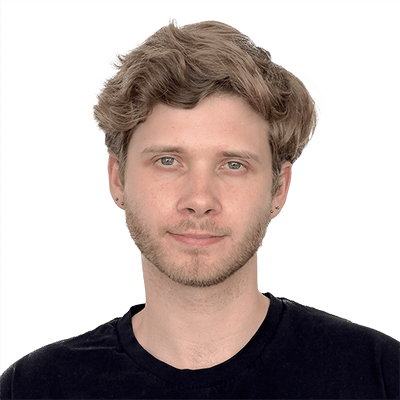
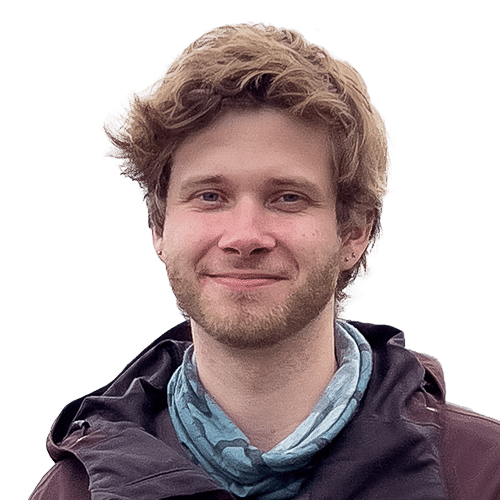
Update photo of me

diff --git a/src/pages/BusinessCardPage.vue b/src/pages/BusinessCardPage.vue
@@ -3,7 +3,7 @@
     <PageCard>
       <section class="businesscard">
         <div class="businesscard-column businesscard-photo-container">
-          <img src="/me.png?v=2" alt="Photo of Mark Metcalfe" />
+          <img src="/me.png?v=3" alt="Photo of Mark Metcalfe" />
         </div>
         <div class="businesscard-column businesscard-content">
           <div class="businesscard-row">
@@ -36,8 +36,7 @@ export default defineComponent({
 .businesscard {
   padding: 5px;
   display: flex;
-  align-content: center;
-  justify-content: space-between;
+  place-content: center space-between;
   align-items: center;
 
   &-outer {
@@ -49,7 +48,7 @@ export default defineComponent({
   img {
     border-radius: 50%;
     height: 210px;
-    filter: contrast(190%) brightness(90%) grayscale(100%);
+    filter: var(--profile-image-filter);
   }
 
   &-column {
@@ -62,8 +61,7 @@ export default defineComponent({
     width: min-content;
     display: flex;
     flex-flow: column nowrap;
-    align-content: space-between;
-    justify-content: space-between;
+    place-content: space-between space-between;
     align-items: center;
     height: 200px;
 

diff --git a/src/pages/HomePage.vue b/src/pages/HomePage.vue
@@ -3,7 +3,7 @@
     <section class="home-header">
       <h1>Mark Metcalfe</h1>
       <div class="photo-of-me">
-        <img src="/me.png?v=2" />
+        <img src="/me.png?v=3" />
       </div>
       <div class="home-header-about">
         <h3>Developer <span>/</span> VJ <span>/</span> Digital Wizard</h3>
@@ -93,7 +93,7 @@ export default defineComponent({
     .photo-of-me {
       display: inline-block;
       transform: translateZ(0);
-      filter: contrast(190%) brightness(90%) grayscale(100%);
+      filter: var(--profile-image-filter);
 
       @include desktop-only {
         height: 9rem;

diff --git a/src/App.vue b/src/App.vue
@@ -43,6 +43,7 @@ export default defineComponent({
   --color-red: #f00;
   --color-white: #fff;
   --color-black: #000;
+  --profile-image-filter: contrast(133%) brightness(133%) grayscale(100%);
 }
 
 body {
@@ -85,12 +86,15 @@ button.button-icon:hover {
 .black {
   color: var(--color-black);
 }
+
 .white {
   color: var(--color-white);
 }
+
 .green {
   color: var(--color-green);
 }
+
 .red {
   color: var(--color-red);
 }
